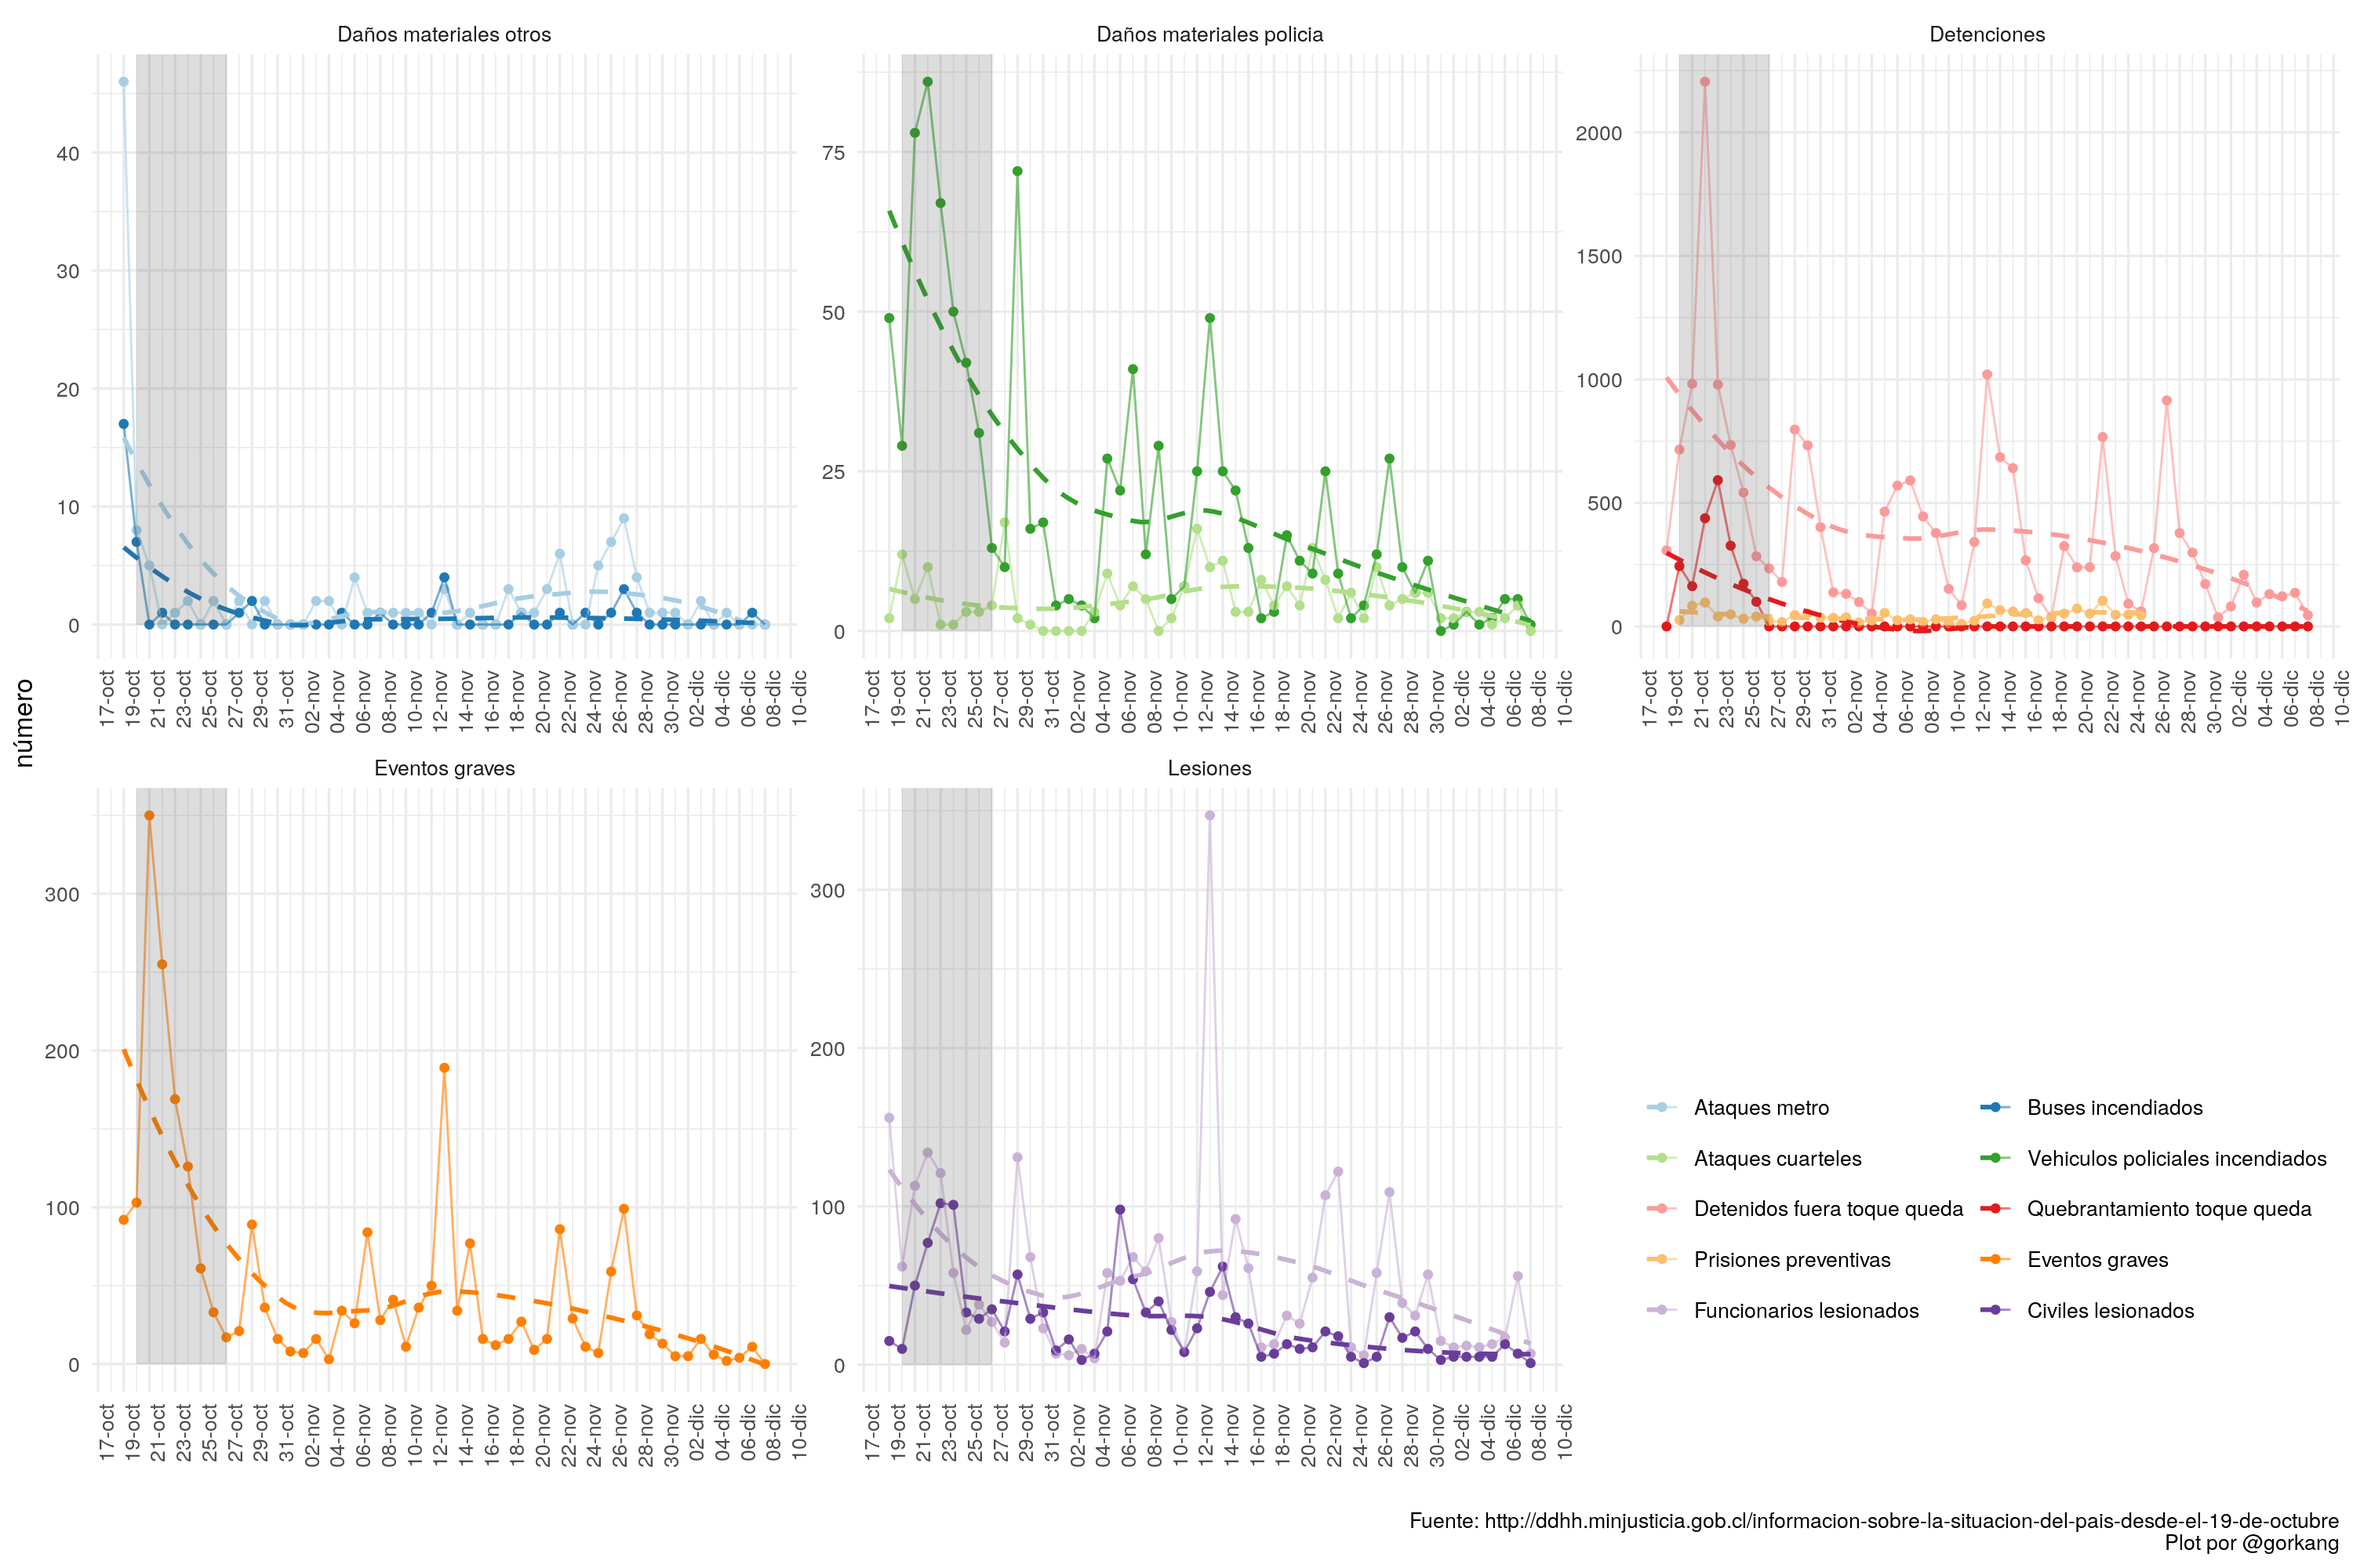
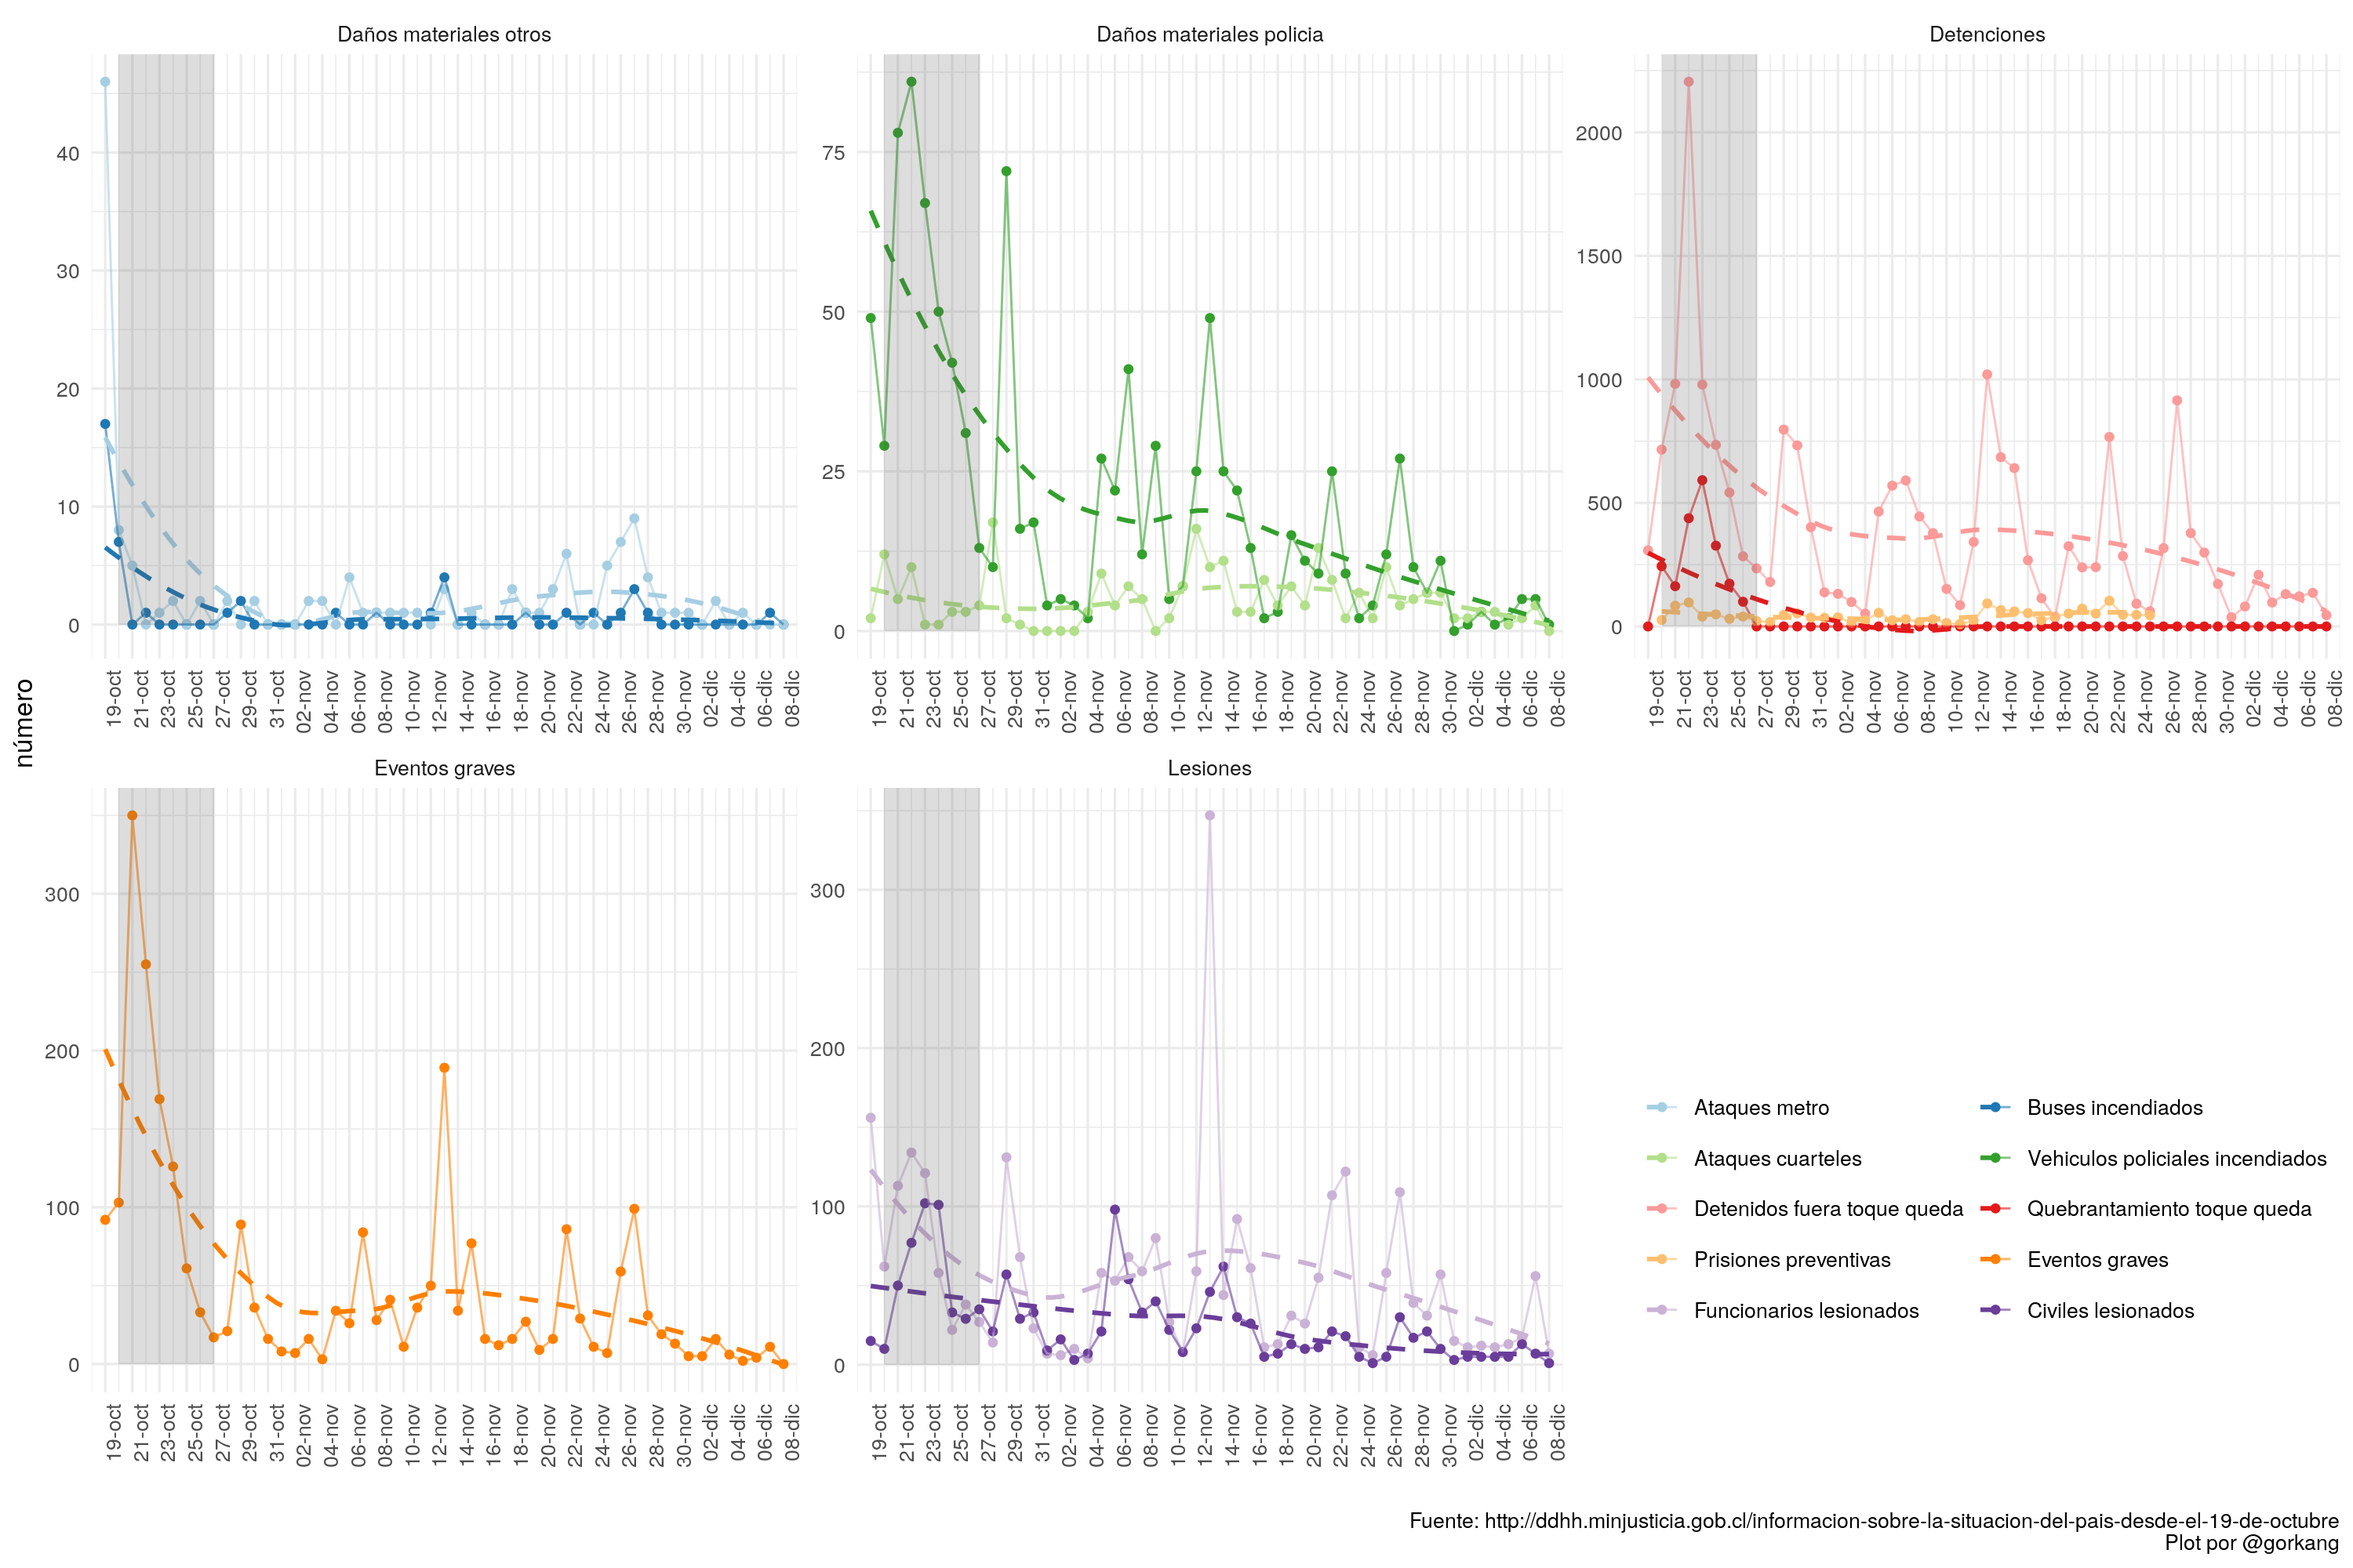
Added global_heatmap. Fixed x axis limits.

diff --git a/README.md b/README.md
@@ -20,6 +20,11 @@ Código: https://github.com/gorkang/2019-Chile
 [![](outputs/plot/LAST_plot_grouped.png)](outputs/LAST_plot_grouped.png)
 
 
+## Densidad de eventos
+
+[![](outputs/plot/LAST_plot_global_heatmap.png)](outputs/LAST_plot_global_heatmap.png)
+
+
 ## Densidad de eventos por día de la semana
 
 [![](outputs/plot/LAST_plot_heatmap.png)](outputs/LAST_plot_heatmap.png)
